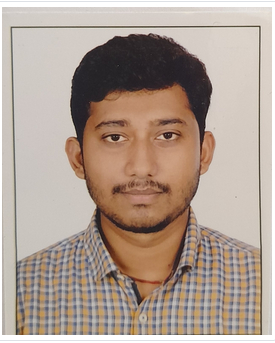
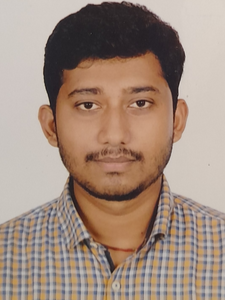
images size updated

diff --git a/current.html b/current.html
@@ -57,7 +57,15 @@
             <span
               ><i class="bi bi-search"></i>
               <b>Area of research :</b> Fundamental understanding on the
-              mechanics of instabilities during solid-fluid interaction
+              mechanics of instabilities during solid-fluid interaction |
+              <a
+                class="ms-2"
+                href="#"
+                target="_blank"
+                rel="noopener noreferrer"
+              >
+                <i class="bi bi-box-arrow-up-right"></i>
+              </a>
             </span>
             <span
               ><i class="bi bi-envelope-at-fill"></i>
@@ -85,7 +93,15 @@
             <span><i class="bi bi-mortarboard-fill"></i> Ph. D. Student</span>
             <span
               ><i class="bi bi-search"></i> <b>Area of research :</b> Improving
-              the performance of ballasts to support high speed rail tracks
+              the performance of ballasts to support high speed rail tracks |
+              <a
+                class="ms-2"
+                href="#"
+                target="_blank"
+                rel="noopener noreferrer"
+              >
+                <i class="bi bi-box-arrow-up-right"></i>
+              </a>
             </span>
             <span
               ><i class="bi bi-envelope-at-fill"></i>
@@ -114,7 +130,15 @@
             <span><i class="bi bi-mortarboard-fill"></i> Ph. D. Student</span>
             <span
               ><i class="bi bi-search"></i> <b>Area of research :</b> Mechanics
-              of gas hydrate sediments
+              of gas hydrate sediments |
+              <a
+                class="ms-2"
+                href="https://sites.google.com/view/sahilwani/"
+                target="_blank"
+                rel="noopener noreferrer"
+              >
+                <i class="bi bi-box-arrow-up-right"></i>
+              </a>
             </span>
             <span
               ><i class="bi bi-envelope-at-fill"></i>
@@ -143,7 +167,15 @@
             <span><i class="bi bi-mortarboard-fill"></i> M. S. Student</span>
             <span
               ><i class="bi bi-search"></i> <b>Area of research :</b> Enhancing
-              the interfacial characteristics of geo-materials
+              the interfacial characteristics of geo-materials |
+              <a
+                class="ms-2"
+                href="#"
+                target="_blank"
+                rel="noopener noreferrer"
+              >
+                <i class="bi bi-box-arrow-up-right"></i>
+              </a>
             </span>
             <span
               ><i class="bi bi-envelope-at-fill"></i>

diff --git a/research.html b/research.html
@@ -54,13 +54,13 @@
       <h2>Research Highlights</h2>
     </div>
     <div
-      id="carouselExampleInterval"
-      class="carousel slide mt-3"
+      id="carouselExampleDark"
+      class="carousel carousel-dark slide mt-3"
       data-bs-ride="carousel"
     >
       <div class="carousel-inner">
         <div class="carousel-item active" data-bs-interval="3000">
-          <img src="./assets/images/others/c_phi.png" class="d-block" alt="" />
+          <img src="./assets/images/others/c_phi.png" class="d-block " alt="" />
           <p class="text-center">
             3D contact bound structure of a c-&#966 material
           </p>
@@ -88,21 +88,17 @@
           <p class="text-center">Termite mound</p>
         </div>
       </div>
-      <button
-        class="carousel-control-prev"
-        type="button"
-        data-bs-target="#carouselExampleInterval"
-        data-bs-slide="prev"
-      >
-        <span class="carousel-control-prev-icon" aria-hidden="true" ></span>
+      <!-- <div class="carousel-indicators">
+        <button type="button" data-bs-target="#carouselExampleDark" data-bs-slide-to="0" class="active" aria-current="true" aria-label="Slide 1"></button>
+        <button type="button" data-bs-target="#carouselExampleDark" data-bs-slide-to="1" aria-label="Slide 2"></button>
+        <button type="button" data-bs-target="#carouselExampleDark" data-bs-slide-to="2" aria-label="Slide 3"></button>
+        <button type="button" data-bs-target="#carouselExampleDark" data-bs-slide-to="3" aria-label="Slide 4"></button>
+      </div> -->
+      <button class="carousel-control-prev" type="button" data-bs-target="#carouselExampleDark" data-bs-slide="prev">
+        <span class="carousel-control-prev-icon" aria-hidden="true"></span>
         <span class="visually-hidden">Previous</span>
       </button>
-      <button
-        class="carousel-control-next"
-        type="button"
-        data-bs-target="#carouselExampleInterval"
-        data-bs-slide="next"
-      >
+      <button class="carousel-control-next" type="button" data-bs-target="#carouselExampleDark" data-bs-slide="next">
         <span class="carousel-control-next-icon" aria-hidden="true"></span>
         <span class="visually-hidden">Next</span>
       </button>

diff --git a/publications.html b/publications.html
@@ -43,6 +43,20 @@
         <div>
           <ol>
             <li>
+              Kumar J. S., Chaudhuri A., Detournay E., and Kandasami R. K.
+              (2023) “Fluid injection‐induced cavity expansion in dry porous
+              medium” , International Journal for Numerical and Analytical
+              Methods in Geomechanics, PP. 1-19, doi.org/10.1002/nag.3631 |
+              <a
+                class="ms-2"
+                href="https://onlinelibrary.wiley.com/doi/abs/10.1002/nag.3631"
+                target="_blank"
+                rel="noopener noreferrer"
+              >
+                <i class="bi bi-box-arrow-up-right"></i>
+              </a>
+            </li>
+            <li>
               Wani S., Samala R., Kandasami R. K., and Chaudhuri A. (2023)
               "Positioning of horizontal well-bore in the hydrate reservoir
               using a custom developed coupled THMC solver", Computers and

diff --git a/assets/css/style.css b/assets/css/style.css
@@ -77,6 +77,9 @@ h6 {
 }
 
 /* research page  */
+.research .carousel {
+  /* height: 520px; for scroll indicator below image */
+}
 .carousel-inner img {
   height: 450px;
   width: auto !important;
@@ -93,7 +96,9 @@ h6 {
   width: fit-content;
   margin: 0 auto;
 }
-
+.research .carousel-indicators {
+  margin-top: 10px !important;
+}
 .research_ul li {
   text-align: justify;
 }
@@ -102,9 +107,6 @@ h6 {
 }
 
 /* teaching page */
-/* .teaching .accordion-button {
-  border-radius: 7px !important;
-} */
 .accordion-body ul li {
   margin-bottom: 5px;
   text-align: justify;

diff --git a/events.html b/events.html
@@ -38,7 +38,7 @@
     <div id="header"></div>
     <h2>Events</h2>
     <div class="container">
-      <div class="row">
+      <!-- <div class="row">
         <div class="col-lg p-2">
           <iframe
             width="100%"
@@ -74,7 +74,7 @@
             allowfullscreen
           ></iframe>
         </div>
-      </div>
+      </div> -->
     </div>
     <div id="footer"></div>
     <!-- Option 1: Bootstrap Bundle with Popper -->
